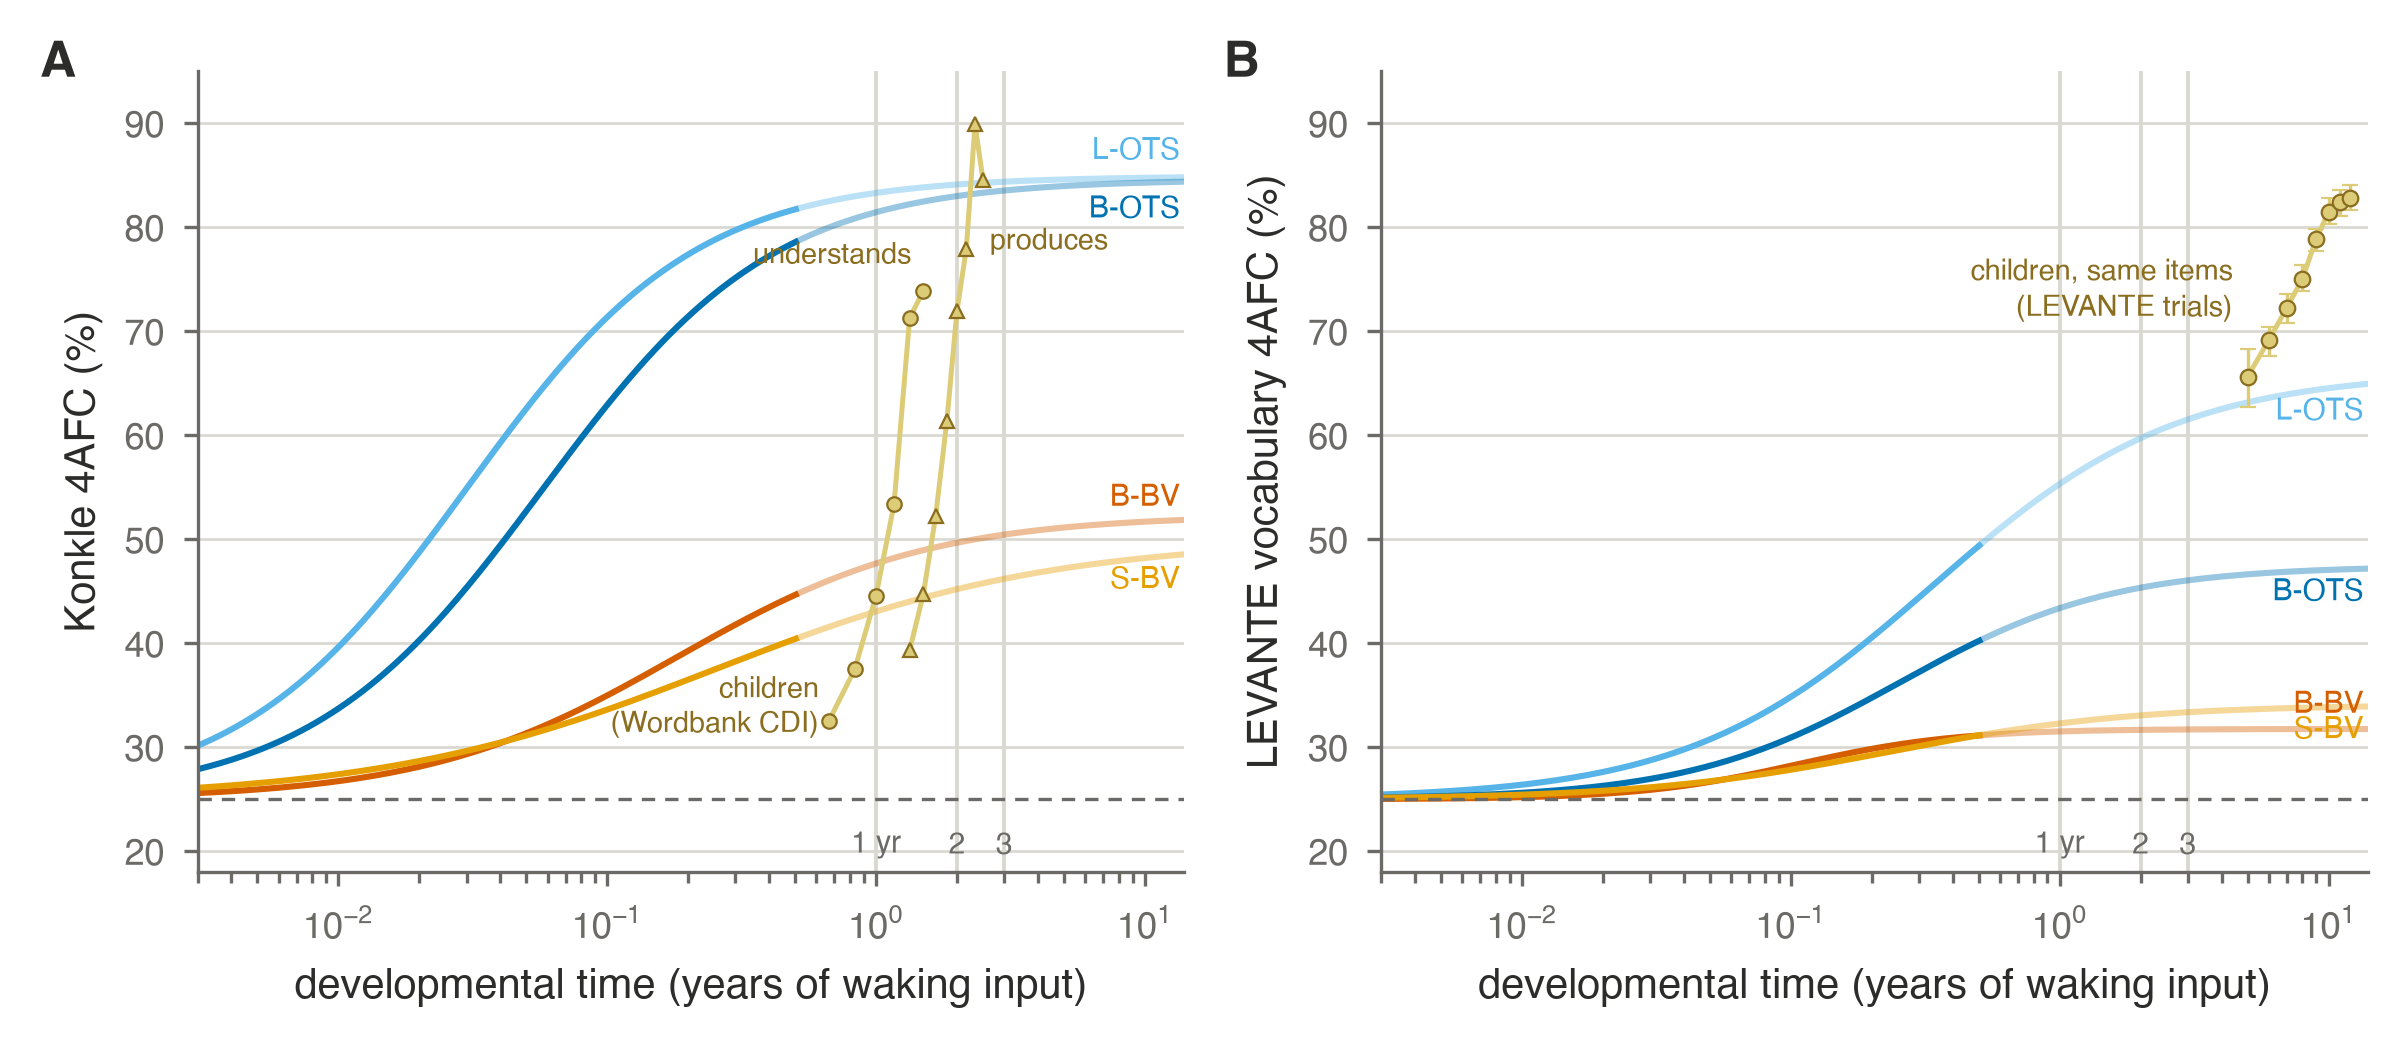
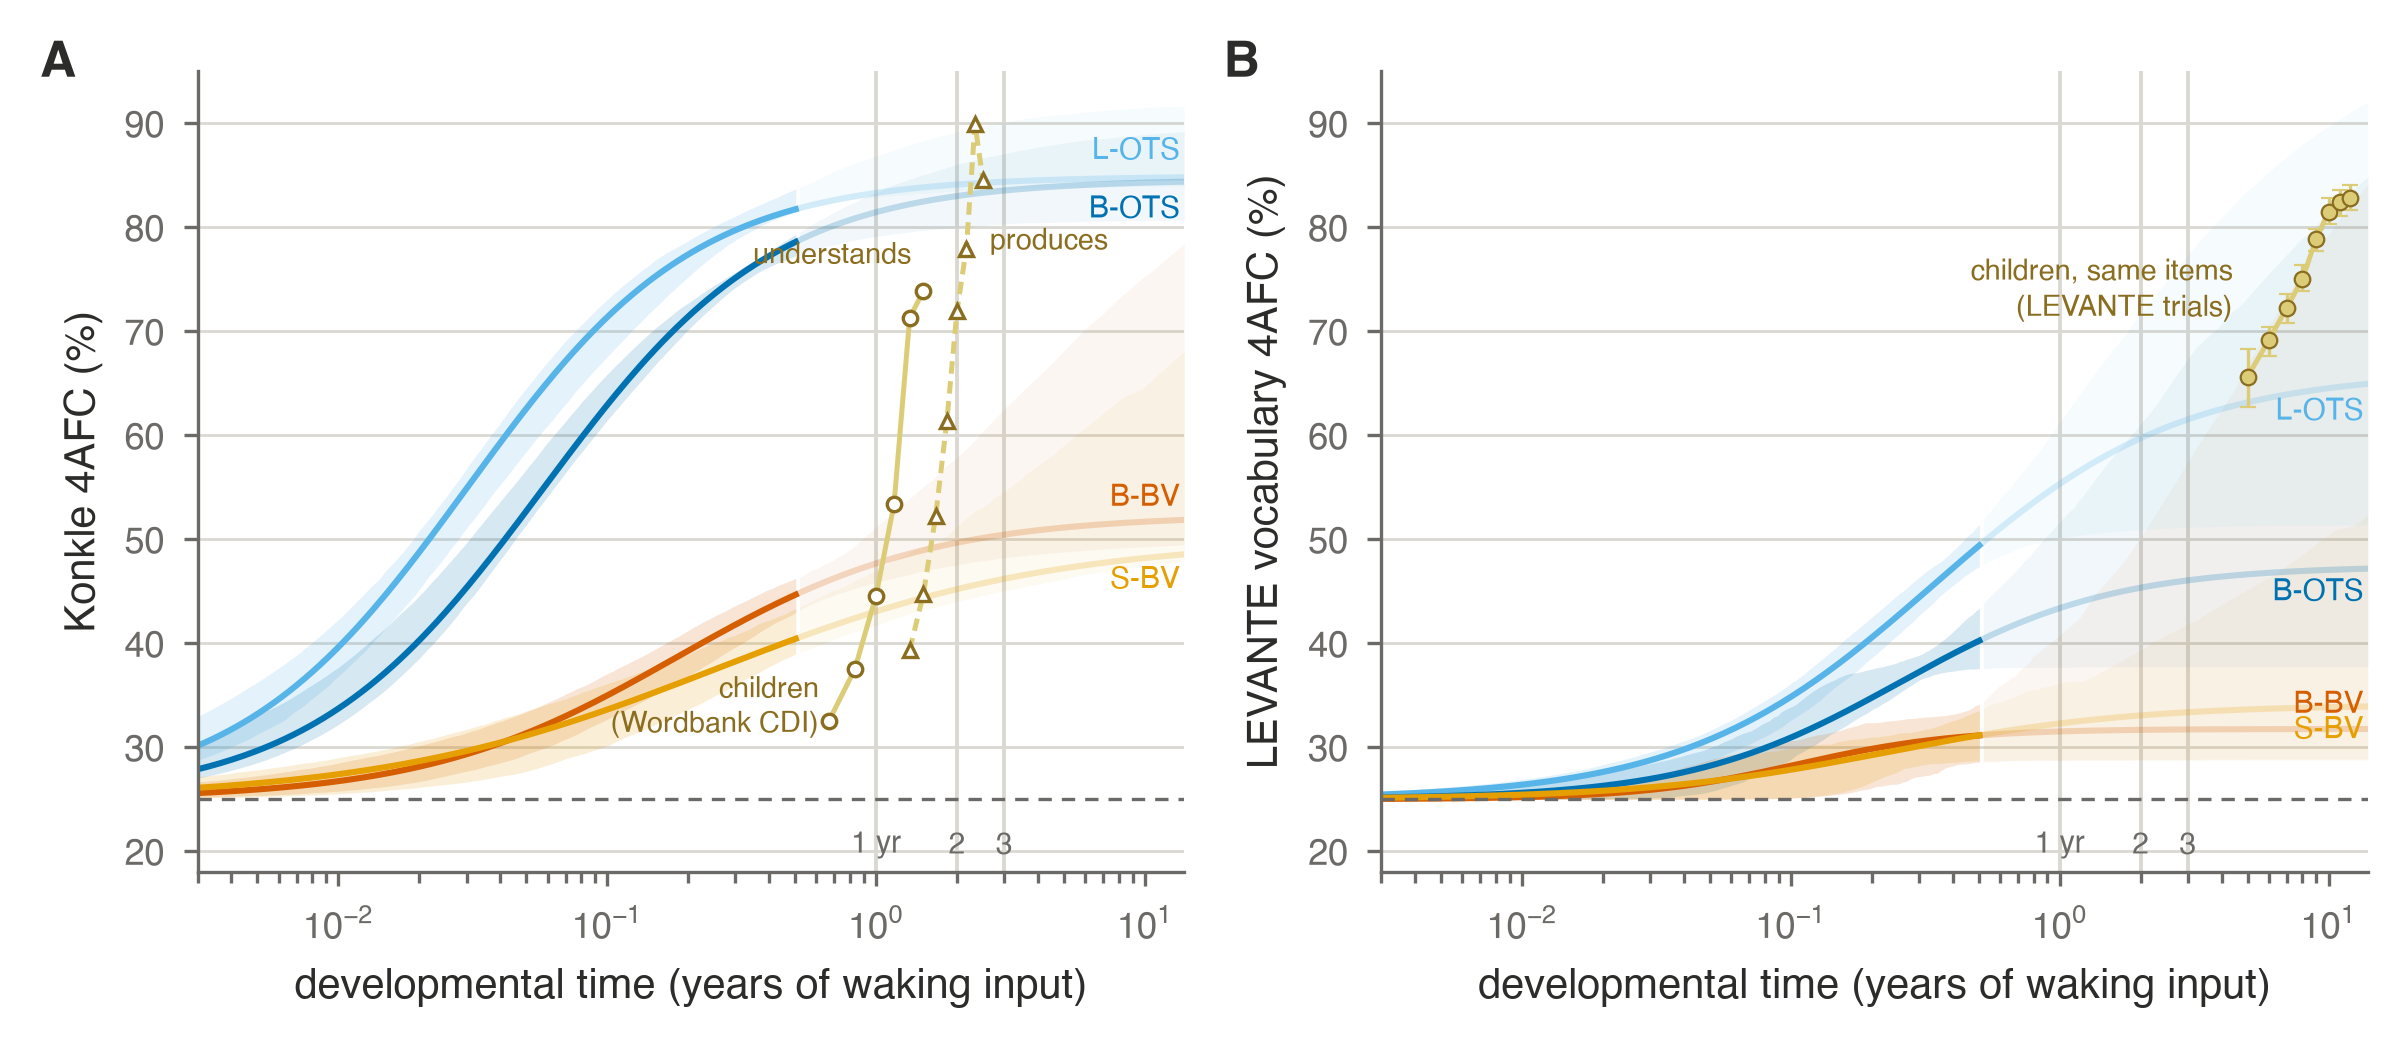
fig3: bands on every curve, projections faded much harder, child lines differentiated
Bands are the 10-90% MC interval over seed noise on every encoder in both panels; past
the observed range they drop to alpha 0.05 and the curve to alpha 0.22, so an
extrapolation cannot be mistaken for data. The LEVANTE panel's bands make the point the
prose was asserting without showing it: the fair-score projections fan out enormously
(L-OTS spans roughly 50-90 at 10 yr), because a coverage-bound ceiling is not identified
by six points.

Wordbank comprehension vs production now differ by line style (solid vs dashed) with open
markers, distinguishing them from the filled, error-barred LEVANTE children in B who are
measured rather than derived.

Also fixes an undefined  in the panel-B band loop.

diff --git a/figures/fig3_development.py b/figures/fig3_development.py
@@ -28,6 +28,7 @@ to_yr = lambda n: n / UTT_PER_HR / HR_PER_YEAR
 tgrid = np.logspace(np.log10(3e-3), np.log10(14), 260)
 ngrid = tgrid * UTT_PER_HR * HR_PER_YEAR
 OBS_END = to_yr(1_686_105)
+rng = np.random.default_rng(0)
 
 ENC = [("dinov3l", "L-OTS", "DINOv3-L off-the-shelf", T.OTHER),
        ("dinov3b", "B-OTS", "DINOv3-B off-the-shelf", T.FREE),
@@ -37,23 +38,29 @@ ENC = [("dinov3l", "L-OTS", "DINOv3-L off-the-shelf", T.OTHER),
 fig, (ax, bx) = plt.subplots(1, 2, figsize=(T.W2, 2.6))
 
 
-def curve_with_fade(a, popt, col):
+def curve_with_fade(a, popt, col, band=None):
+    """Solid + banded where we have data; heavily faded past it, where only the seed
+    component of the uncertainty is quantified."""
     obs = tgrid <= OBS_END; ext = tgrid >= OBS_END
+    if band is not None:
+        lo, hi = band
+        a.fill_between(tgrid[obs], lo[obs], hi[obs], color=col, alpha=0.16, lw=0, zorder=1)
+        a.fill_between(tgrid[ext], lo[ext], hi[ext], color=col, alpha=0.05, lw=0, zorder=1)
     a.plot(tgrid[obs], logistic(ngrid[obs], *popt), color=col, lw=1.1, zorder=2)
-    a.plot(tgrid[ext], logistic(ngrid[ext], *popt), color=col, lw=1.1, alpha=0.4, zorder=2)
+    a.plot(tgrid[ext], logistic(ngrid[ext], *popt), color=col, lw=1.1, alpha=0.22, zorder=2)
 
 
 # ---- A: Konkle -------------------------------------------------------------------
 KDY = {"L-OTS": 2.6, "B-OTS": -2.6, "B-BV": 2.2, "S-BV": -2.4}
 for enc, key, lab, col in ENC:
     F = fit(enc=enc)
-    curve_with_fade(ax, F["popt"], col)
+    curve_with_fade(ax, F["popt"], col, band=F["band"](ngrid))
     ax.text(13.5, logistic(ngrid[-1], *F["popt"]) + KDY[key], key, fontsize=5.4, color=col,
             ha="right", va="center")
-for form, meas, mk in [("WG", "understands", "o"), ("WS", "produces", "^")]:
+for form, meas, mk, ls in [("WG", "understands", "o", "-"), ("WS", "produces", "^", (0, (2.5, 1.5)))]:
     d = WB[WB.form == form].sort_values("age")
-    ax.plot(d.age / 12, d.pred_4afc, marker=mk, ms=2.6, lw=0.9, color=T.CHILD,
-            markeredgecolor=CDI_INK, markeredgewidth=0.4, zorder=5)
+    ax.plot(d.age / 12, d.pred_4afc, marker=mk, ms=2.6, lw=0.9, ls=ls, color=T.CHILD,
+            markerfacecolor="white", markeredgecolor=CDI_INK, markeredgewidth=0.6, zorder=5)
     end = d.iloc[-1]
     if form == "WS":
         ax.text(end.age / 12 * 1.06, end.pred_4afc - 4.5, meas, fontsize=5.2, color=CDI_INK,
@@ -74,7 +81,15 @@ for enc, key, lab, col in ENC:
     x, y, e = S.N.values.astype(float), S.m.values, np.maximum(S.sd.values, 0.5)
     popt, _ = curve_fit(logistic, x, y, p0=(6, 0.8, 45), sigma=e,
                         bounds=([3, 0.1, 25.5], [10, 3, 100]), maxfev=60000)
-    curve_with_fade(bx, popt, col)
+    lodraw = []
+    for _ in range(300):
+        try:
+            q, _ = curve_fit(logistic, x, y + rng.normal(0, e), p0=popt,
+                             bounds=([3, 0.1, 25.5], [10, 3, 100]), maxfev=60000)
+            lodraw.append(logistic(ngrid, *q))
+        except Exception:
+            pass
+    curve_with_fade(bx, popt, col, band=np.percentile(np.array(lodraw), [10, 90], axis=0))
     bx.text(13.5, logistic(ngrid[-1], *popt) + LDY[key], key, fontsize=5.4, color=col,
             ha="right", va="center")
     print(f"  NOTE fig3 LEVANTE {key}: fair asymptote {popt[2]:.1f}")
